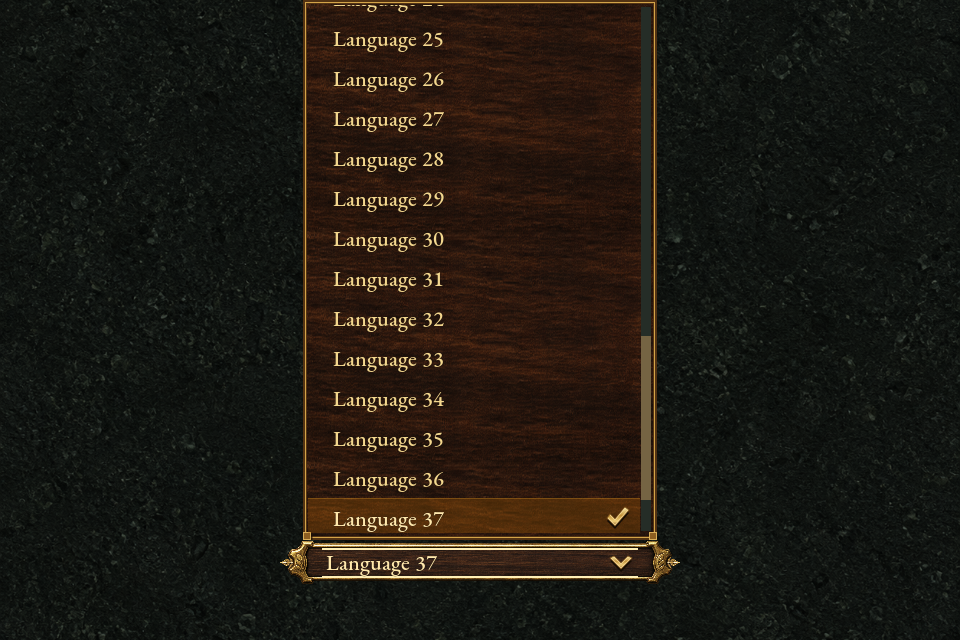
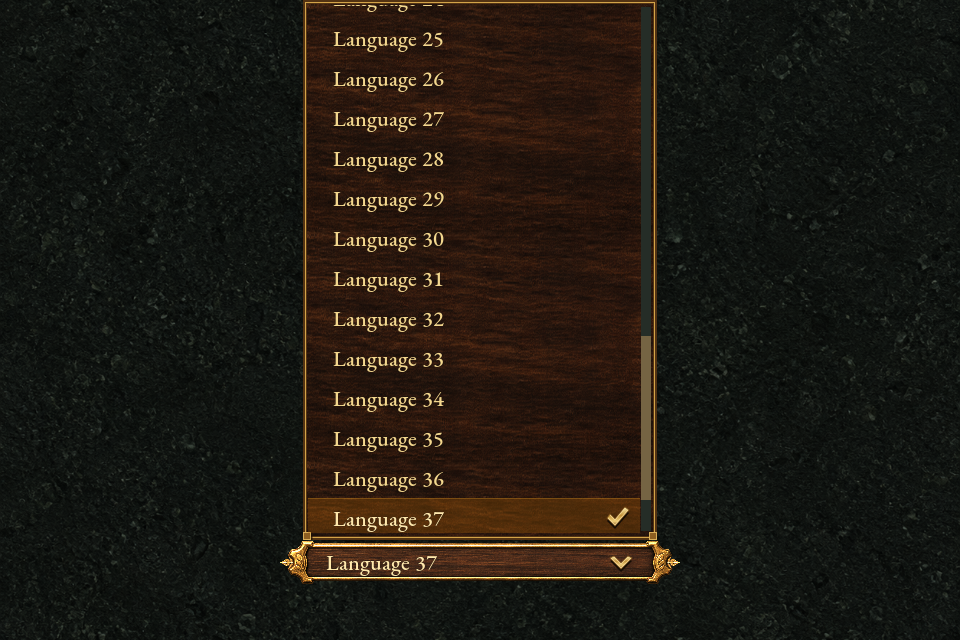
Replace dropdown focus bars with material lighting
The flat Fantasy focus overlay painted pale horizontal bars over the walnut, including after selection and on open trays. Light the existing frame texture in its native draw state instead, retaining a visible keyboard cue and the pressed geometry without mutating shared materials.

Add rendered pixel regressions for both densities, normal/hover/pressed/disabled states and fractional scaling. Refresh the visual evidence; interaction and catalogue checks pass.

Changed region(s): [[0.2812, 0.8438, 0.7188, 0.9062]]

diff --git a/docs/evidence/menu-choice/README.md b/docs/evidence/menu-choice/README.md
@@ -7,6 +7,7 @@ The Fantasy frame reuses the existing walnut cartouche and brass finial artwork.
 | State | Capture |
 | --- | --- |
 | Fantasy, regular, English selected and Deutsch focused | [Open tray](fantasy-regular-open.png) |
+| Fantasy, keyboard focus on the closed field | [Focused field](fantasy-regular-focused.png) |
 | Fantasy, compact | [Compact tray](fantasy-compact-open.png) |
 | Fantasy, disabled | [Disabled field](fantasy-regular-disabled.png) |
 | Cyberpunk, virtual surfaces | [Open tray](cyberpunk-regular-open.png) |
@@ -14,6 +15,11 @@ The Fantasy frame reuses the existing walnut cartouche and brass finial artwork.
 
 Validation:
 
+- `tests/menu_choice_focus.gd`: PASS with a graphical renderer. Pixel comparisons
+  catch the reported pale focus bars and require a visible focus response on both
+  brass fittings. Covers normal, hover, pressed/open and disabled states at both
+  densities and at 1×/1.25× scale. Focus now lights the existing frame texture in
+  place, so it follows the pressed offset without drawing flat bars on the wood.
 - `tests/menu_choice.gd`: PASS, headless and graphical. Native keyboard and mouse
   selection; repeated reopening; disabled-item skipping; Escape and outside
   dismissal; selection metadata and signal count; long lists; live theme and
@@ -28,8 +34,9 @@ Reproduce:
 ```sh
 /Applications/Godot.app/Contents/MacOS/Godot --headless --path . --script res://tests/menu_choice.gd
 /Applications/Godot.app/Contents/MacOS/Godot --path . --script res://tests/menu_choice.gd -- --capture-dir=/tmp/menu-choice
+/Applications/Godot.app/Contents/MacOS/Godot --path . --script res://tests/menu_choice_focus.gd -- --capture-dir=/tmp/menu-choice-focus
 ```
 
-Run the same script with `-- --preview` to leave the interactive Fantasy
+Run `tests/menu_choice.gd` with `-- --preview` to leave the interactive Fantasy
 example open. The capture run ignores real desktop pointer and focus changes
 so they cannot interfere with its injected native input events.
